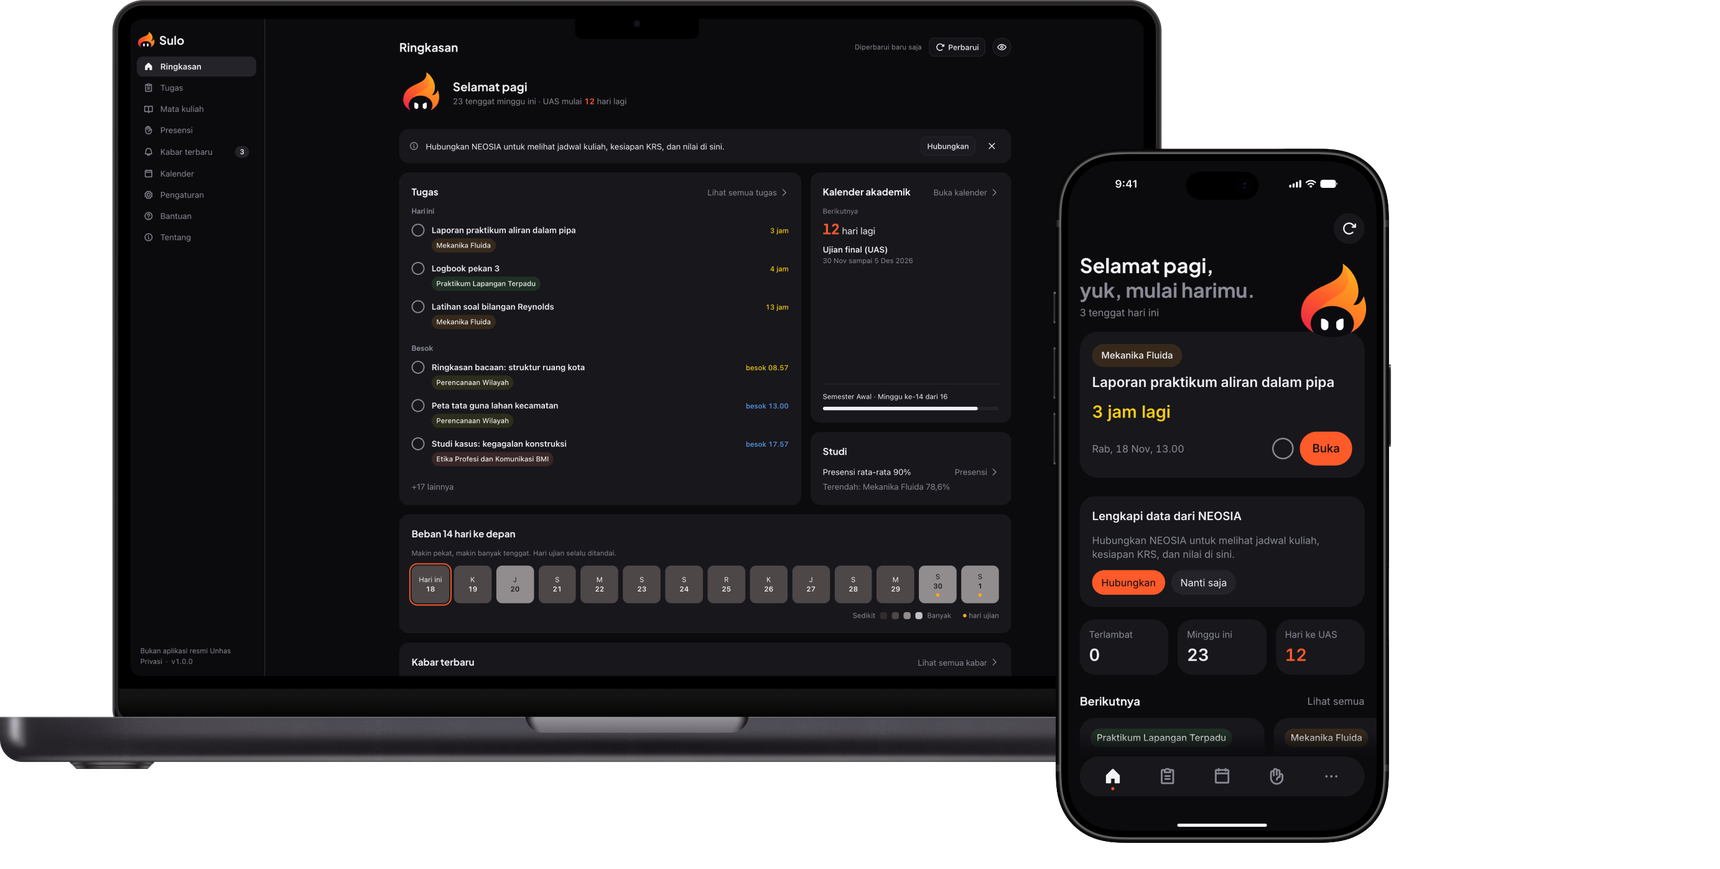
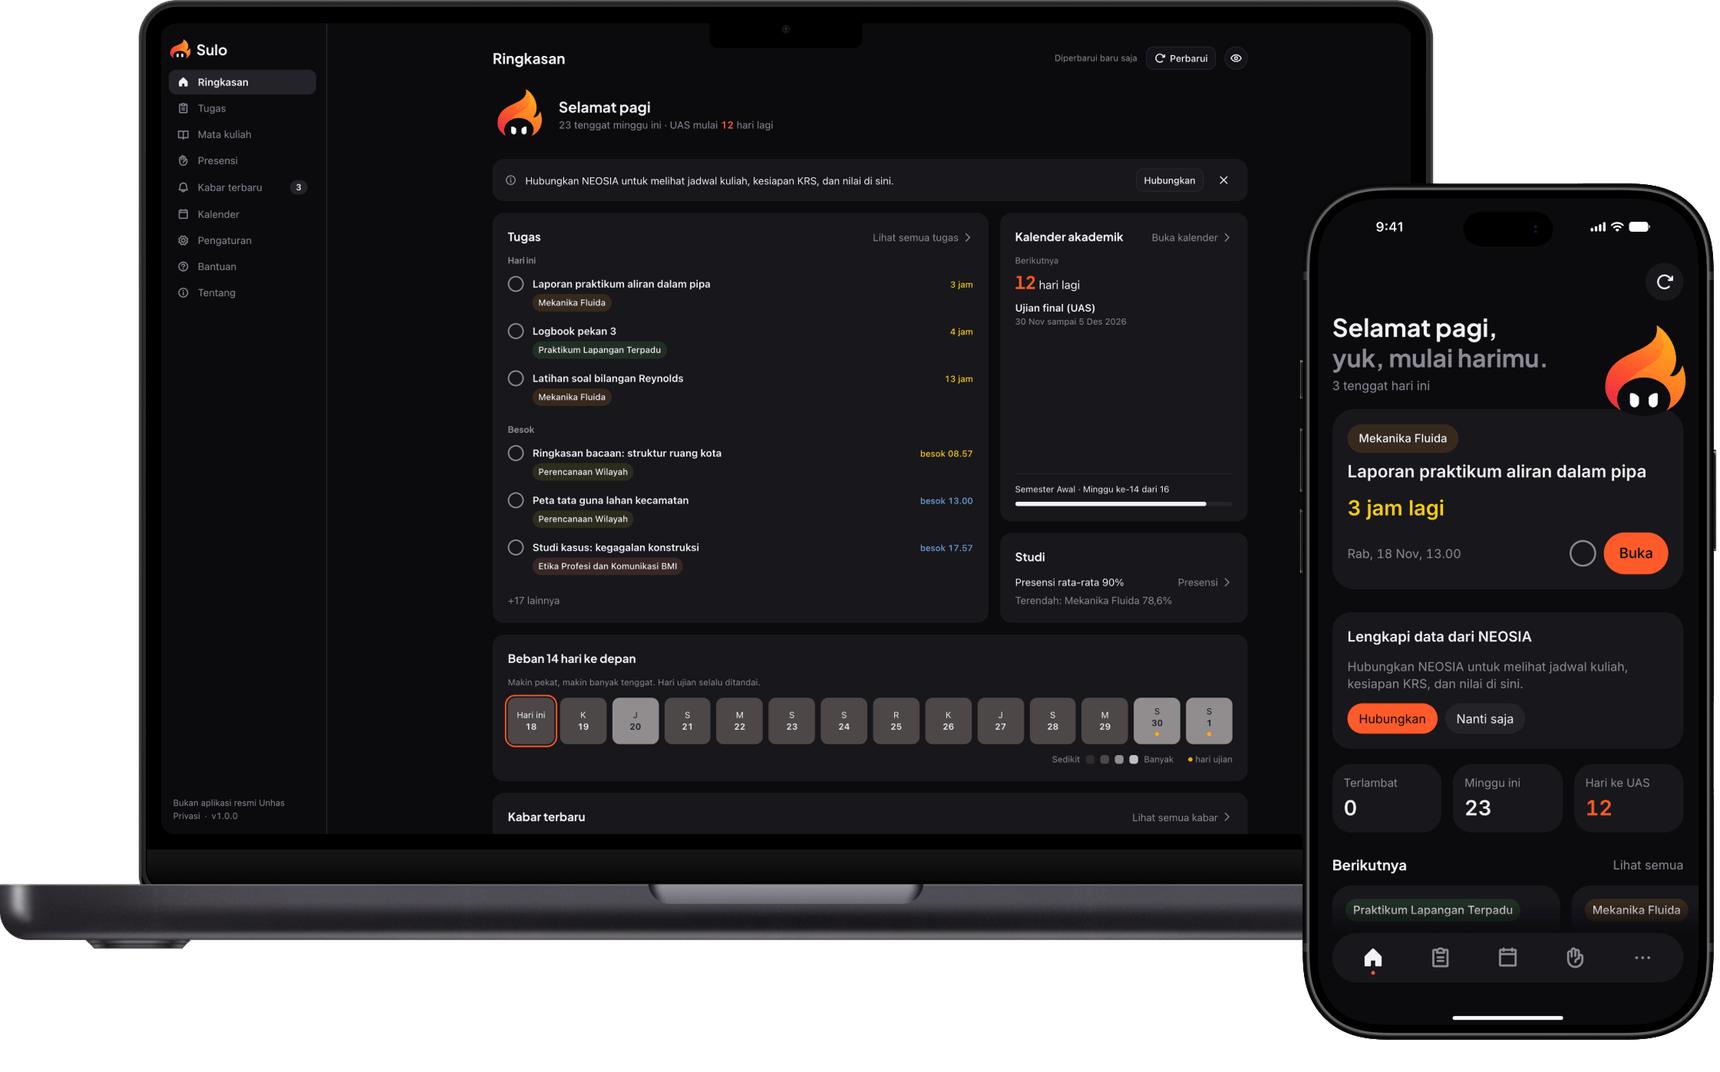
docs: the owner's re-export of the README hero, centred, as WebP
The owner re-exported the four hero images without the empty strip on the
right, so the laptop and phone now sit in the middle of the README.

Each image is stored at 1720 px (twice the 860 px it is shown at):
- WebP at quality 90, about 80 KB, which the README picks first; it looks
  the same as the lossless PNG, gradients and small text included.
- PNG with 256 colours, about 155 KB, for a browser without WebP.
The lossless PNG at that size was about 500 KB.

diff --git a/README.id.md b/README.id.md
@@ -19,8 +19,9 @@ Sulo mengumpulkan tugas, tenggat, dan presensi dari SIKOLA serta kalender akadem
 
 <p align="center">
   <picture>
+    <source type="image/webp" media="(prefers-color-scheme: dark)" srcset="docs-publik/hero-dark.id.webp">
+    <source type="image/webp" media="(prefers-color-scheme: light)" srcset="docs-publik/hero-light.id.webp">
     <source media="(prefers-color-scheme: dark)" srcset="docs-publik/hero-dark.id.png">
-    <source media="(prefers-color-scheme: light)" srcset="docs-publik/hero-light.id.png">
     <img alt="Dashboard Sulo di laptop dengan tugas hari ini, kalender akademik, dan beban 14 hari ke depan, di samping aplikasi HP Sulo yang menampilkan tenggat terdekat, 3 jam lagi. Data contoh." src="docs-publik/hero-light.id.png" width="860">
   </picture>
 </p>

diff --git a/README.md b/README.md
@@ -19,8 +19,9 @@ Sulo puts your SIKOLA tasks, deadlines and attendance and the Unhas academic cal
 
 <p align="center">
   <picture>
+    <source type="image/webp" media="(prefers-color-scheme: dark)" srcset="docs-publik/hero-dark.webp">
+    <source type="image/webp" media="(prefers-color-scheme: light)" srcset="docs-publik/hero-light.webp">
     <source media="(prefers-color-scheme: dark)" srcset="docs-publik/hero-dark.png">
-    <source media="(prefers-color-scheme: light)" srcset="docs-publik/hero-light.png">
     <img alt="Sulo's dashboard on a laptop, showing today's tasks, the academic calendar and a 14-day workload strip, next to Sulo's phone app showing the nearest deadline, 3 hours left. Sample data." src="docs-publik/hero-light.png" width="860">
   </picture>
 </p>
